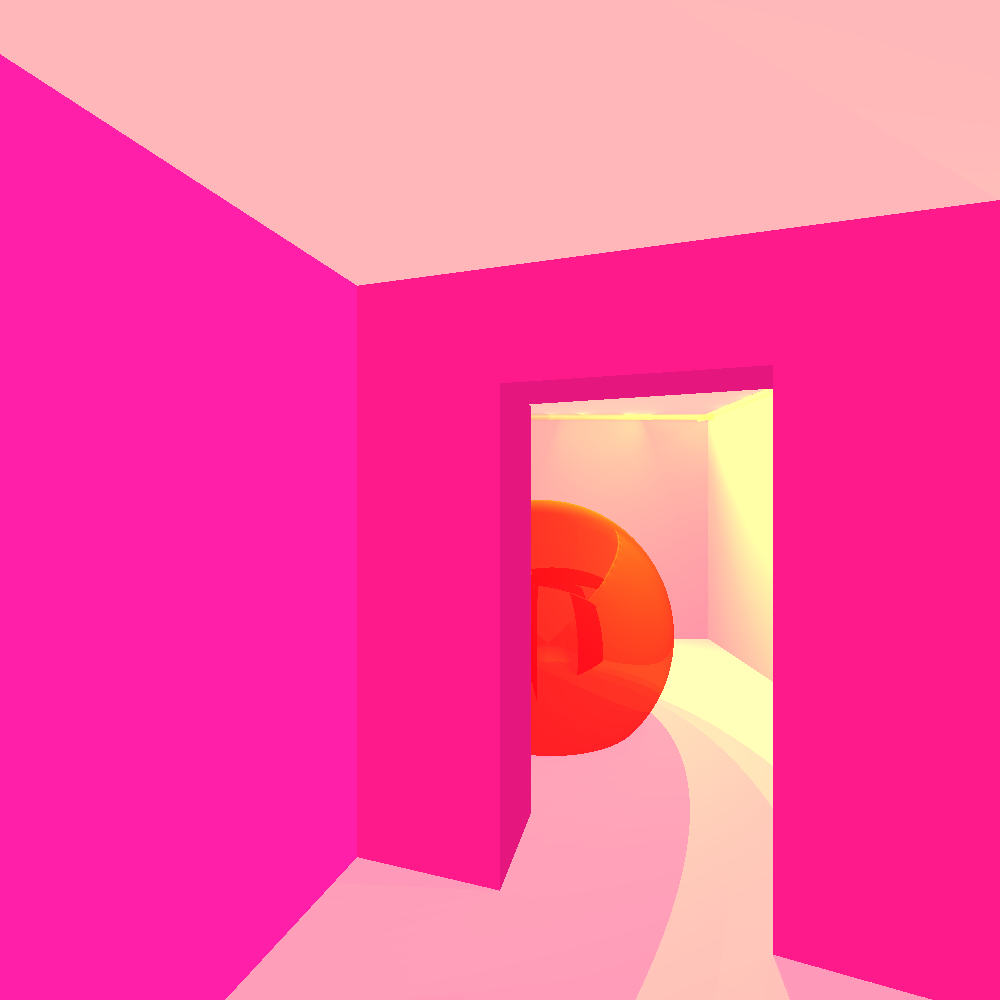
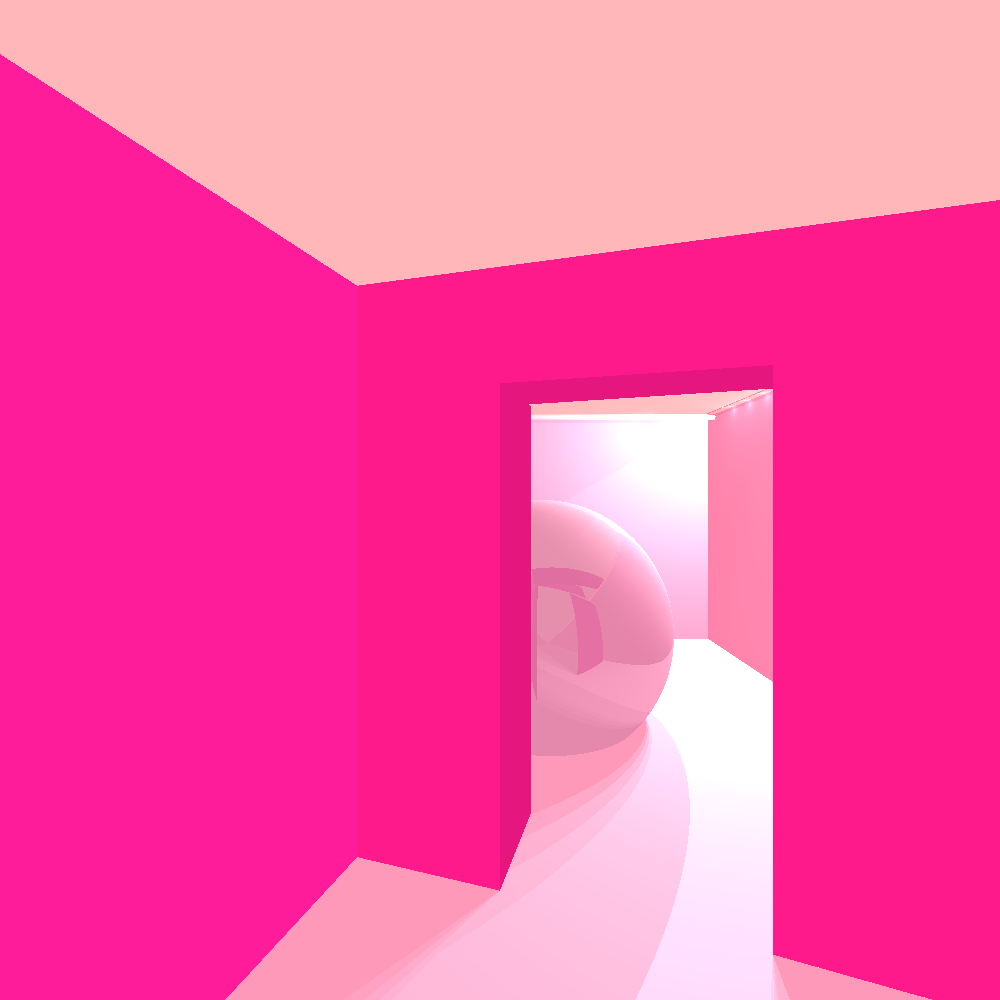
start of soft shadows affect

Changed region(s): [[0.372, 0.372, 0.806, 1.0]]

diff --git a/src/renderer/RayTracerBasic.java b/src/renderer/RayTracerBasic.java
@@ -347,29 +347,102 @@ public class RayTracerBasic extends RayTracerBase {
      * @param ray      the ray that intersected with the point
      * @return the local effects on the point as a Color object
      */
-    private Color calcLocalEffects(GeoPoint geoPoint, Ray ray, Double3 k) {
-        var color = geoPoint.getGeometry().getEmission();
+//    private Color calcLocalEffects(GeoPoint geoPoint, Ray ray, Double3 k) {
+//        var color = geoPoint.getGeometry().getEmission();
+//        Vector v = ray.getDir();
+//        Vector n = geoPoint.getGeometry().getNormal(geoPoint.getPoint());
+//        double nv = alignZero(n.dotProduct(v));
+//
+//        // if the ray is orthogonal to the point's normal it does not make any effect:
+//        if (isZero(nv))
+//            return color;
+//
+//        Material mat = geoPoint.getGeometry().getMaterial();
+//        for (LightSource light : scene.lights) {
+//            Vector l = light.getL(geoPoint.getPoint());
+//            double nl = n.dotProduct(l);
+//
+//            // Make sure that the perspective (camera) and the light source, are both in
+//            // the same side of the point's tangent plane sign(nl) == sign(nv)
+//            if (alignZero(nl * nv) > 0) {
+//                Double3 ktr = transparency(geoPoint, light, l, n);
+//              //  if (ktr.product(k).greaterThan(MIN_CALC_COLOR_K)) {
+//                if (ktr.product(k).greaterThan(MIN_CALC_COLOR_K)) {
+//                    Color iL = light.getIntensity(geoPoint.getPoint()).scale(ktr);
+//                    color = color.add(iL.scale(calcDiffusive(mat, nl)), iL.scale(calcSpecular(mat, n, l, nl, v)));
+//                }
+//            }
+//        }
+//        return color;
+//    }
+
+    //TODO : instead on previous calcLocalEffects function
+    private Color calcLocalEffects(GeoPoint intersection, Ray ray, Double3 k) {
+        // (Kd * |l.dorProduct(n)| ) * Il + (Ks * max(0 ,(-v).dotProduct(r))  nShinines) * Il
+        // l = vector from light source to the point
+        // n = normal vector to shape at point
+        // r = specular vector to vector from light to point
+        // v = ray from camera to point
+
+
+        // v
         Vector v = ray.getDir();
-        Vector n = geoPoint.getGeometry().getNormal(geoPoint.getPoint());
+        // n
+        Vector n = intersection.geometry.getNormal(intersection.point);
         double nv = alignZero(n.dotProduct(v));
+        if (nv == 0)
+            return Color.BLACK;
+        //  nShininess
+        int nShininess = intersection.geometry.getMaterial().nShininess;
+        // Kd
+        Double3 kD = intersection.geometry.getMaterial().kD;
+        // Ks
+        Double3 kS = intersection.geometry.getMaterial().kS;
+        Color color = Color.BLACK;
+        // loop through all light sources in scene
 
-        // if the ray is orthogonal to the point's normal it does not make any effect:
-        if (isZero(nv))
-            return color;
+        var lights = scene.lights;
+        if (softShadow) {
+            for (var lightSource : lights) {
+                Color colorBeam = Color.BLACK;
+                var vectors = lightSource.getListL(intersection.point);
+                for (var l:vectors) {
 
-        Material mat = geoPoint.getGeometry().getMaterial();
-        for (LightSource light : scene.lights) {
-            Vector l = light.getL(geoPoint.getPoint());
-            double nl = n.dotProduct(l);
+                    // l.dorProduct(n)
+                    double nl = alignZero(n.dotProduct(l));
+                    // check that light direction is towards shape and not behind
+                    if (nl * nv > 0) { // sign(nl) == sing(nv)
 
-            // Make sure that the perspective (camera) and the light source, are both in
-            // the same side of the point's tangent plane sign(nl) == sign(nv)
-            if (alignZero(nl * nv) > 0) {
-                Double3 ktr = transparency(geoPoint, light, l, n);
-              //  if (ktr.product(k).greaterThan(MIN_CALC_COLOR_K)) {
-                if (ktr.product(k).greaterThan(MIN_CALC_COLOR_K)) {
-                    Color iL = light.getIntensity(geoPoint.getPoint()).scale(ktr);
-                    color = color.add(iL.scale(calcDiffusive(mat, nl)), iL.scale(calcSpecular(mat, n, l, nl, v)));
+                        Double3 ktr = transparency(intersection, lightSource, l, n);
+                        if (ktr.scale(k).greaterThan(MIN_CALC_COLOR_K)) {
+                            Color lightIntensity = lightSource.getIntensity(intersection.point).scale(ktr);
+                            // (Kd * |l.dorProduct(n)|) * Il
+                            colorBeam = colorBeam.add(calcDiffusive(kD, nl, lightIntensity),
+                                    // (Ks * max(0 ,(-v).dotProduct(r))  nShinines ) * Il
+                                    calcSpecular(kS, nl, l, n, v, nShininess, lightIntensity));
+                        }
+                    }
+                }
+                color=color.add(colorBeam.reduce(vectors.size()));
+            }
+        }
+        else {
+            for (var lightSource : lights) {
+                // l
+                Vector l = lightSource.getL(intersection.point);
+                // l.dorProduct(n)
+                double nl = alignZero(n.dotProduct(l));
+                // check that light direction is towards shape and not behind
+                if (nl * nv > 0) { // sign(nl) == sing(nv)
+
+                    Double3 ktr = transparency(intersection, lightSource, l, n);
+                    if (ktr.scale(k).greaterThan(MIN_CALC_COLOR_K)) {
+                        Color lightIntensity = lightSource.getIntensity(intersection.point).scale(ktr);
+                        // (Kd * |l.dorProduct(n)|) * Il
+                        color = color.add(calcDiffusive(kD, nl, lightIntensity),
+                                // (Ks * max(0 ,(-v).dotProduct(r)) ** nShinines ) * Il
+                                calcSpecular(kS, nl, l, n, v, nShininess, lightIntensity));
+                    }
                 }
             }
         }

diff --git a/unitTests/renderer/pinkRoomWithLed.java b/unitTests/renderer/pinkRoomWithLed.java
@@ -56,10 +56,6 @@ import static java.awt.Color.YELLOW;
                 .setMaterial(new Material().setKd(0.5));
 
 
-        Geometry Sphere1 = new Sphere(new Point(-30, 20, 40), 30)
-                .setEmission(new Color(RED))
-                .setMaterial(new Material().setKd(0.5).setKr(0.2).setShininess(100));
-
         //rectengle0
         Geometry door0 =
                 new Polygon(
@@ -67,7 +63,7 @@ import static java.awt.Color.YELLOW;
                         new Point(-60, 0, 90),
                         new Point(-60, 80, 90),
                         new Point(-75, 80, 130))
-                        .setMaterial(new Material()).setEmission(new Color(255,26,140).scale(1.2));
+                        .setMaterial(new Material()).setEmission(new Color(255,26,140).scale(1.11));
 
         //rectangle5
         Geometry door1 = new Polygon(
@@ -109,7 +105,13 @@ import static java.awt.Color.YELLOW;
                 ).setMaterial(new Material()).setEmission(new Color(255,26,140).scale(.9d));
 
 
-        double radius = 1;
+            Geometry Sphere1 = new Sphere(new Point(-30, 20, 40), 30)
+                    .setEmission(new Color(255, 153, 194).scale(0.7))
+                    .setMaterial(new Material().setKd(0.5).setKr(0.2).setShininess(100));
+
+
+
+            double radius = 1;
         Ray axisray = new Ray(new Point(0, 79, -15), new Vector(1, 0, 0));
         double length = 0.1;
 
@@ -118,50 +120,50 @@ import static java.awt.Color.YELLOW;
                 .setMaterial(new Material().setKd(0.5).setKs(0.5).setShininess(100).setKt(0.9));
 
 
-        //spot lights:
+        //spot lights on front wall:
         {// right
-            scene1.lights.add(new SpotLight(new Color(YELLOW).scale(1),
+            scene1.lights.add(new SpotLight(new Color(WHITE).scale(0.7),
                     new Point(14, 79, -15),
                     new Vector(-100, -40, 50)));
         }
 
-        {//MOOL DELET
-            scene1.lights.add(new SpotLight(new Color(YELLOW).scale(1),
-                    new Point(-34, 79, -15),
-                    new Vector(0, 0, 50)));
-        }
+//        {//MOOL DELET
+//            scene1.lights.add(new SpotLight(new Color(YELLOW).scale(0.7),
+//                    new Point(-34, 79, -15),
+//                    new Vector(0, 0, 50)));
+//        }
 
-        {//right after middle
-            scene1.lights.add(new SpotLight(new Color(YELLOW).scale(1),
-                    new Point(-24, 79, -15),
-                    new Vector(100, -40, 100)));
-        }
+//        {//right after middle
+//            scene1.lights.add(new SpotLight(new Color(YELLOW).scale(1),
+//                    new Point(-24, 79, -15),
+//                    new Vector(100, -40, 100)));
+//        }
 
-        {//right after right after middle
-            scene1.lights.add(new SpotLight(new Color(YELLOW).scale(1),
-                    new Point(-12, 79, -15),
-                    new Vector(40, 60, 100)));
-        }
+//        {//right after right after middle
+//            scene1.lights.add(new SpotLight(new Color(YELLOW).scale(1),
+//                    new Point(-12, 79, -15),
+//                    new Vector(40, 60, 100)));
+//        }
+//
+//        {//left right
+//            scene1.lights.add(new SpotLight(new Color(YELLOW).scale(0.7),
+//                    new Point(4, 79, -15),
+//                    new Vector(40, 60, 50)));
+//        }
 
-        {//left right
-            scene1.lights.add(new SpotLight(new Color(YELLOW).scale(1),
-                    new Point(4, 79, -15),
-                    new Vector(40, 60, 50)));
-        }
-
-        //points lights//
-         for(int i = 0; i < 100; i+=15) {
-             scene1.lights.add(new PointLight(new Color(YELLOW),
+        //points lights on right wall
+         for(int i = 0; i <40; i+=10) {
+             scene1.lights.add(new PointLight(new Color(WHITE).scale(0.6),
                      new Point(34, 79, i),
                      1,
                      0.01111,
-                     0.0111));
+                     0.000111));
          }
 
-         //not done, its the door shaddow on sphere
-         scene1.lights.add(new SpotLight(new Color(YELLOW).scale(0.3),
-                 new Point(30, 65, 100),
-                 new Vector(-30, 20, -40)));
+//         //not done, its the door shaddow on sphere
+//         scene1.lights.add(new SpotLight(new Color(YELLOW).scale(0.3),
+//                 new Point(30, 65, 100),
+//                 new Vector(-30, 20, -40)));
 
             double radius2 = 1;
             Ray axisray2 = new Ray(new Point(32, 79, 0), new Vector(0, 0, 1));
